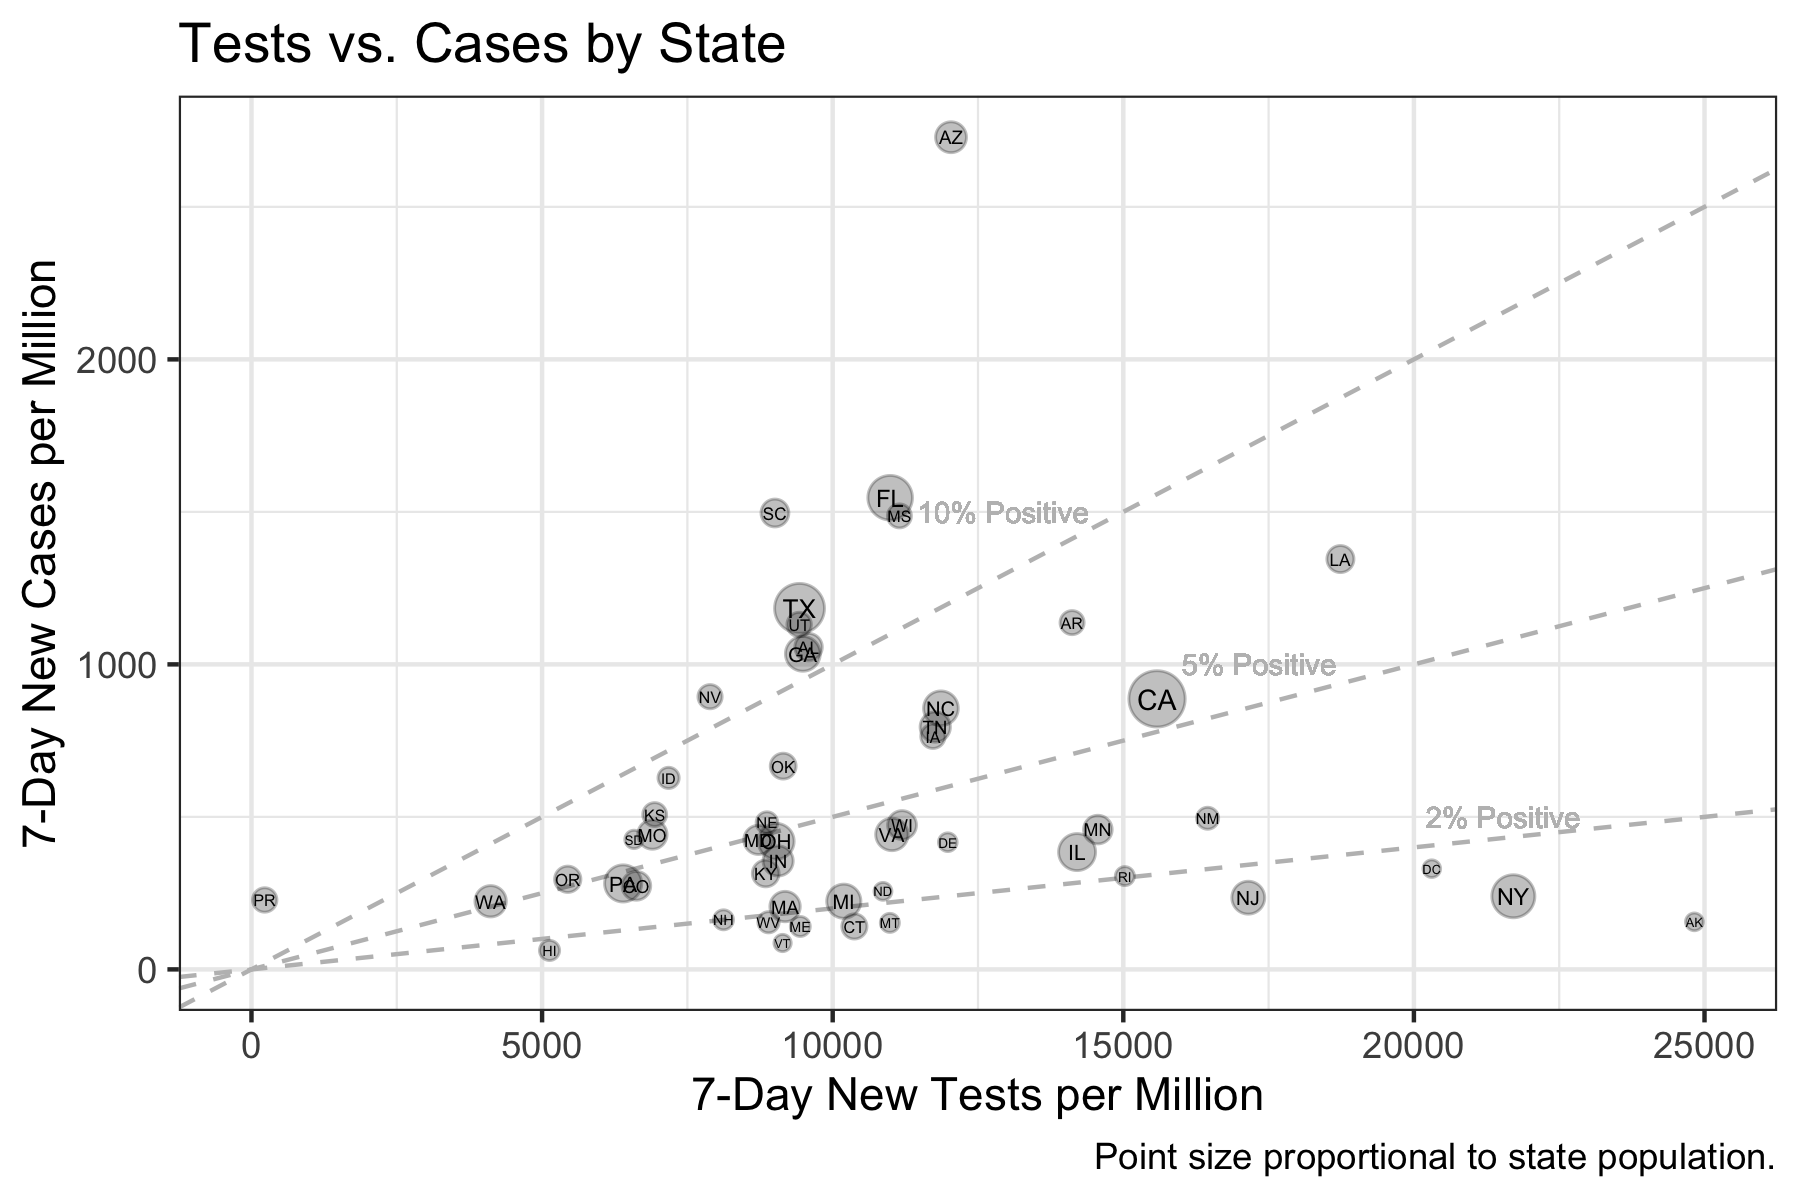
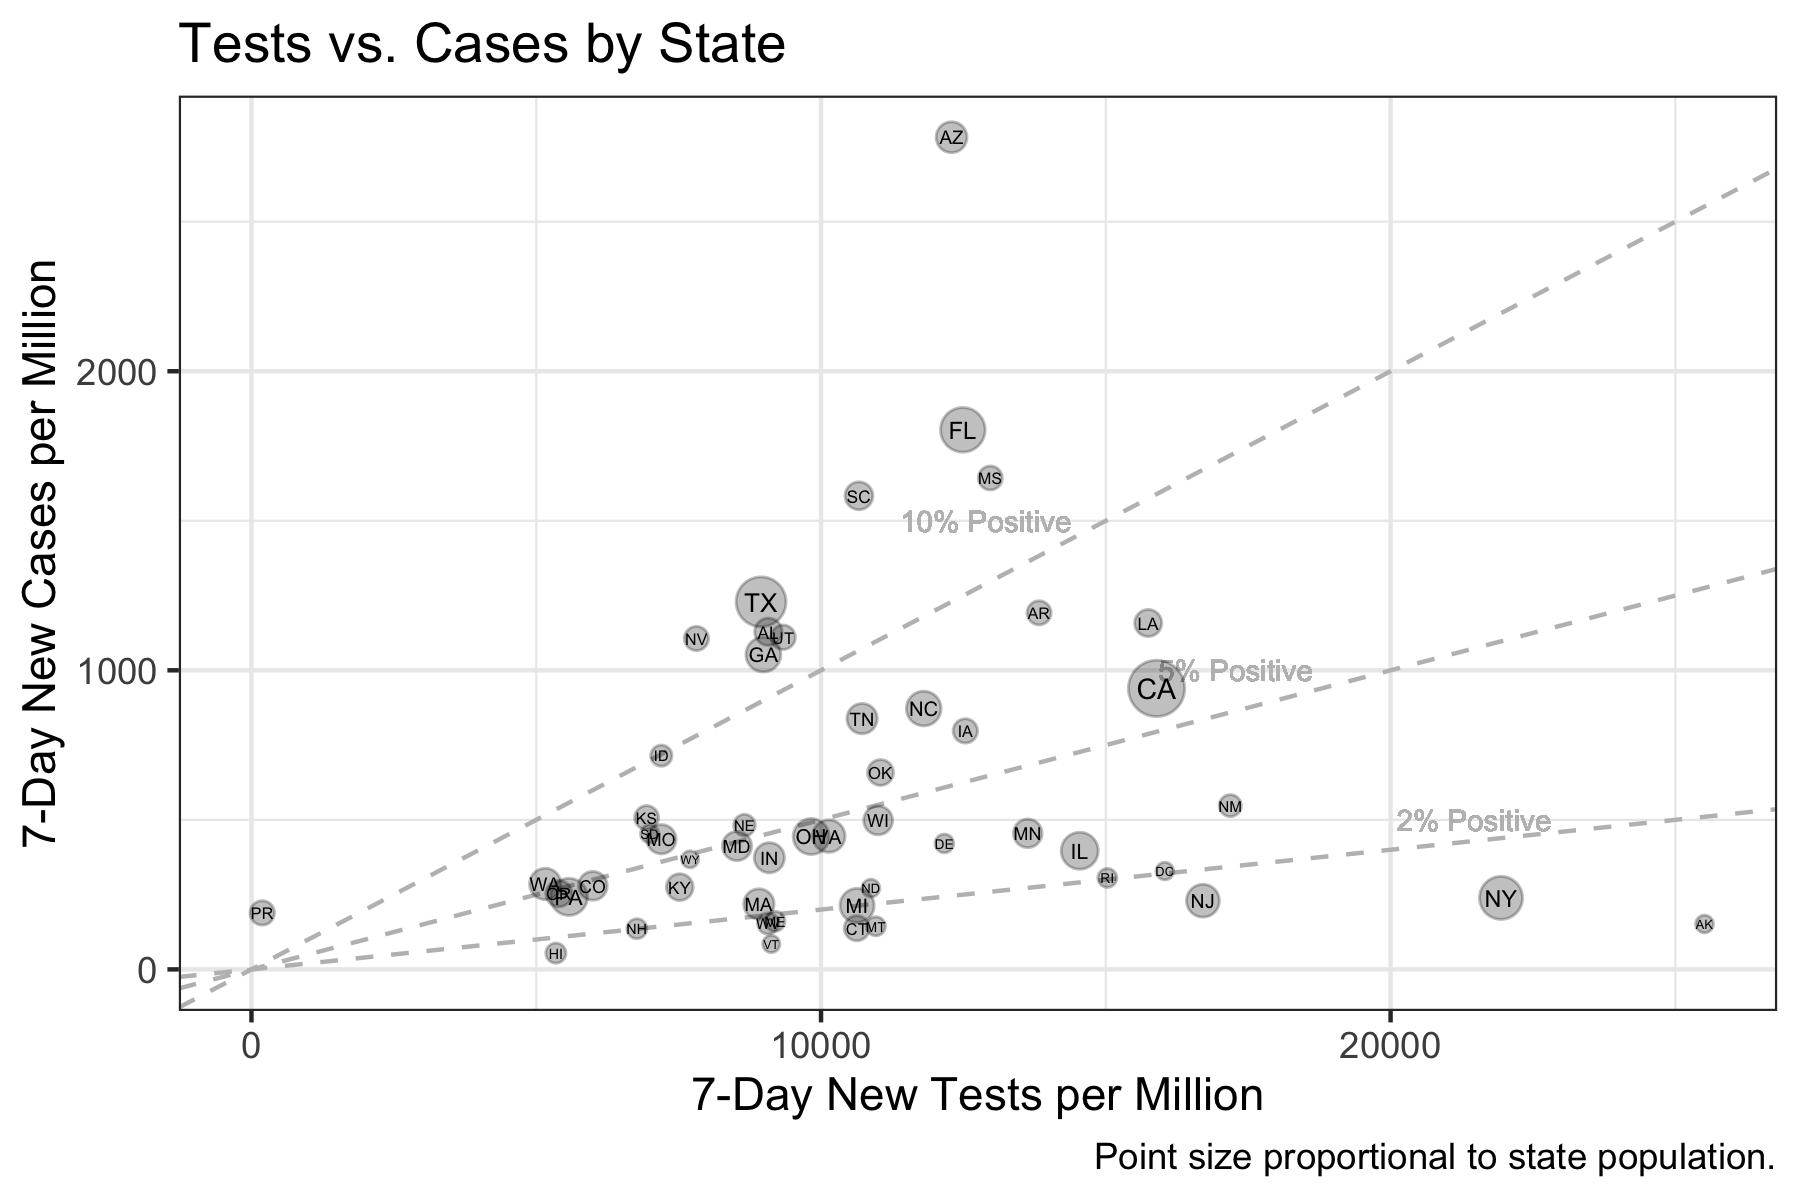
Update: Sat Jun 27 19:01:05 EDT 2020

diff --git a/covid.tex b/covid.tex
@@ -99,7 +99,7 @@
 \begin{document}
 \maketitle
 
-Data updated 2020-06-26 19:11:38. World data are from
+Data updated 2020-06-27 19:00:01. World data are from
 \href{https://github.com/NovelCovid/API}{Worldometers}. National and
 state-level mortality, case, and testing data are from
 \href{https://covidtracking.com}{Johns-Hopkins University}. County and
@@ -112,7 +112,7 @@ presented in this report were accessed through APIs provided by
 \hypertarget{world-data}{%
 \section{World Data}\label{world-data}}
 
-There have been 9,703,330 confirmed Covid-19 cases and 490,989 deaths
+There have been 9,898,547 confirmed Covid-19 cases and 496,079 deaths
 worldwide.
 
 \includegraphics{covid_files/figure-latex/unnamed-chunk-1-1.pdf}
@@ -129,45 +129,45 @@ worldwide.
 \hline
 Country & Cases & Deaths & New Cases & New Deaths\\
 \hline
-USA & 2,504,588 & 126,780 & 40,184 & 649\\
+USA & 2,552,956 & 127,640 & 47,341 & 663\\
 \hline
-Brazil & 1,233,147 & 55,054 & 40,673 & 1,180\\
+Brazil & 1,280,054 & 56,109 & 46,907 & 1,055\\
 \hline
-Russia & 613,994 & 8,605 & 7,113 & 92\\
+Russia & 620,794 & 8,781 & 6,800 & 176\\
 \hline
-India & 491,170 & 15,308 & 18,185 & 401\\
+India & 509,446 & 15,689 & 18,276 & 381\\
 \hline
-UK & 307,980 & 43,230 & 1,118 & 149\\
+UK & 309,360 & 43,414 & 1,380 & 184\\
 \hline
-Spain & 294,566 & 28,330 & 400 & 3\\
+Spain & 294,985 & 28,338 & 419 & 8\\
 \hline
-Peru & 268,602 & 8,761 & 3,913 & 175\\
+Peru & 272,364 & 8,939 & 3,762 & 178\\
 \hline
-Chile & 259,064 & 4,903 & 4,648 & 172\\
+Chile & 263,360 & 5,068 & 4,296 & 165\\
 \hline
-Italy & 239,706 & 34,678 & 296 & 34\\
+Italy & 239,961 & 34,708 & 255 & 30\\
 \hline
-Iran & 215,096 & 10,130 & 2,595 & 134\\
+Iran & 217,724 & 10,239 & 2,628 & 109\\
 \hline
-Mexico & 196,847 & 24,324 & 5,437 & 947\\
+Mexico & 202,951 & 25,060 & 6,104 & 736\\
 \hline
-Germany & 193,785 & 9,012 & 531 & 9\\
+Pakistan & 195,745 & 3,962 & 2,775 & 59\\
 \hline
-Turkey & 193,115 & 5,046 & 1,458 & 21\\
+Turkey & 194,511 & 5,065 & 1,396 & 19\\
 \hline
-Pakistan & 192,970 & 3,903 & 4,044 & 148\\
+Germany & 194,399 & 9,026 & 614 & 14\\
 \hline
-Saudi Arabia & 170,639 & 1,428 & 3,372 & 41\\
+Saudi Arabia & 174,577 & 1,474 & 3,938 & 46\\
 \hline
-France & 161,348 & 29,752 & 0 & 21\\
+France & 162,936 & 29,778 & 1,588 & 26\\
 \hline
-Bangladesh & 126,606 & 1,621 & 3,946 & 39\\
+Bangladesh & 130,474 & 1,661 & 3,868 & 40\\
 \hline
-South Africa & 118,375 & 2,292 & 6,579 & 87\\
+South Africa & 124,590 & 2,340 & 6,215 & 48\\
 \hline
-Canada & 102,622 & 8,504 & 380 & 20\\
+Canada & 102,794 & 8,508 & 172 & 4\\
 \hline
-Qatar & 91,838 & 106 & 1,060 & 2\\
+Qatar & 92,784 & 109 & 946 & 3\\
 \hline
 \end{tabular}
 \end{table}
@@ -185,7 +185,7 @@ Qatar & 91,838 & 106 & 1,060 & 2\\
 \hypertarget{national-data}{%
 \section{National Data}\label{national-data}}
 
-There have been 2,455,351 confirmed Covid-19 cases and 118,650 deaths in
+There have been 2,498,822 confirmed Covid-19 cases and 119,156 deaths in
 the United States.
 
 \begin{table}[!h]
@@ -195,6 +195,8 @@ the United States.
 \begin{tabular}{l|r|r|r|r}
 \hline
 Date & Cases & Deaths & New Cases & New Deaths\\
+\hline
+2020-06-27 & 2,498,822 & 119,156 & 43,471 & 506\\
 \hline
 2020-06-26 & 2,455,351 & 118,650 & 44,373 & 619\\
 \hline
@@ -221,8 +223,6 @@ Date & Cases & Deaths & New Cases & New Deaths\\
 2020-06-15 & 2,107,822 & 110,075 & 18,655 & 379\\
 \hline
 2020-06-14 & 2,089,167 & 109,696 & 21,240 & 356\\
-\hline
-2020-06-13 & 2,067,927 & 109,340 & 25,134 & 693\\
 \hline
 \end{tabular}
 \end{table}
@@ -371,11 +371,11 @@ data for the Washington DC metropolitan area and adjacent states.
 \hline
 State & Cases & Deaths & New Cases & New Deaths\\
 \hline
-DC & 10,185 & 546 & 26 & 3\\
+DC & 10,216 & 548 & 31 & 2\\
 \hline
-MD & 66,115 & 3,142 & 338 & 13\\
+MD & 66,450 & 3,157 & 335 & 15\\
 \hline
-VA & 60,570 & 1,700 & 624 & 25\\
+VA & 61,247 & 1,724 & 677 & 24\\
 \hline
 \end{tabular}
 \end{table}
